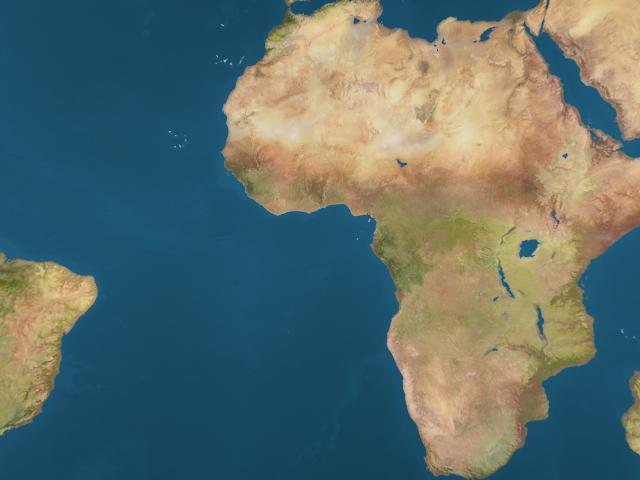
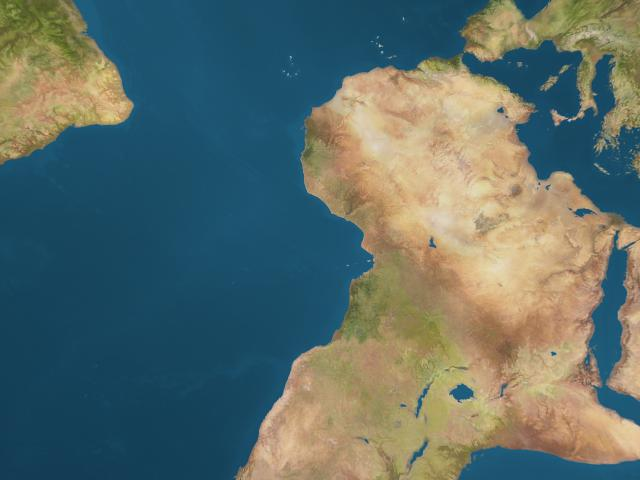
solved rotation

diff --git a/pano2pers_numpy/utils.py b/pano2pers_numpy/utils.py
@@ -73,26 +73,47 @@ def create_rot_mat(
         rotation matrix: numpy.ndarray
     """
 
-    
-
-
+    # default rotation that changes global to camera coordinates
+    x = np.pi
+    y = np.pi
+    z = np.pi
     # calculate rotation about the x-axis
+    R_x_ = np.array([
+        [1., 0., 0.],
+        [0., np.cos(x), -np.sin(x)],
+        [0., np.sin(x), np.cos(x)]])
+    # calculate rotation about the y-axis
+    R_y_ = np.array([
+        [np.cos(y), 0., np.sin(y)],
+        [0., 1., 0.],
+        [-np.sin(y), 0., np.cos(y)]])
+    # calculate rotation about the z-axis
+    R_z_ = np.array([
+        [np.cos(z), -np.sin(z), 0.],
+        [np.sin(z), np.cos(z), 0.],
+        [0., 0., 1.]])
+
+    R = R_z_ @ R_y_ @ R_x_
+
+    # rotation matrix
+
+    # roll: calculate rotation about the x-axis
     R_x = np.array([
         [1., 0., 0.],
         [0., np.cos(roll), -np.sin(roll)],
         [0., np.sin(roll), np.cos(roll)]])
-    # calculate rotation about the y-axis
+    # pitch: calculate rotation about the y-axis
     R_y = np.array([
         [np.cos(pitch), 0., np.sin(pitch)],
         [0., 1., 0.],
         [-np.sin(pitch), 0., np.cos(pitch)]])
-    # calculate rotation about the z-axis
+    # yaw: calculate rotation about the z-axis
     R_z = np.array([
         [np.cos(yaw), -np.sin(yaw), 0.],
         [np.sin(yaw), np.cos(yaw), 0.],
         [0., 0., 1.]])
     
-    R = R_z @ R_y @ R_x
+    R = R @ R_z @ R_y @ R_x
     return R
 
 

diff --git a/demo_numpy.py b/demo_numpy.py
@@ -76,8 +76,8 @@ if __name__ == "__main__":
 
     tic = time.perf_counter()
     # this normalization is needed? how to represent it in equation...
-    ui = (theta + np.pi) * w_pano / (2 * np.pi)
-    uj = (phi + np.pi / 2) * h_pano / np.pi
+    ui = (theta - np.pi) * w_pano / (2 * np.pi)
+    uj = (phi - np.pi / 2) * h_pano / np.pi
 
     ui = np.where(ui < 0, ui + w_pano, ui)
     ui = np.where(ui >= w_pano, ui - w_pano, ui)
